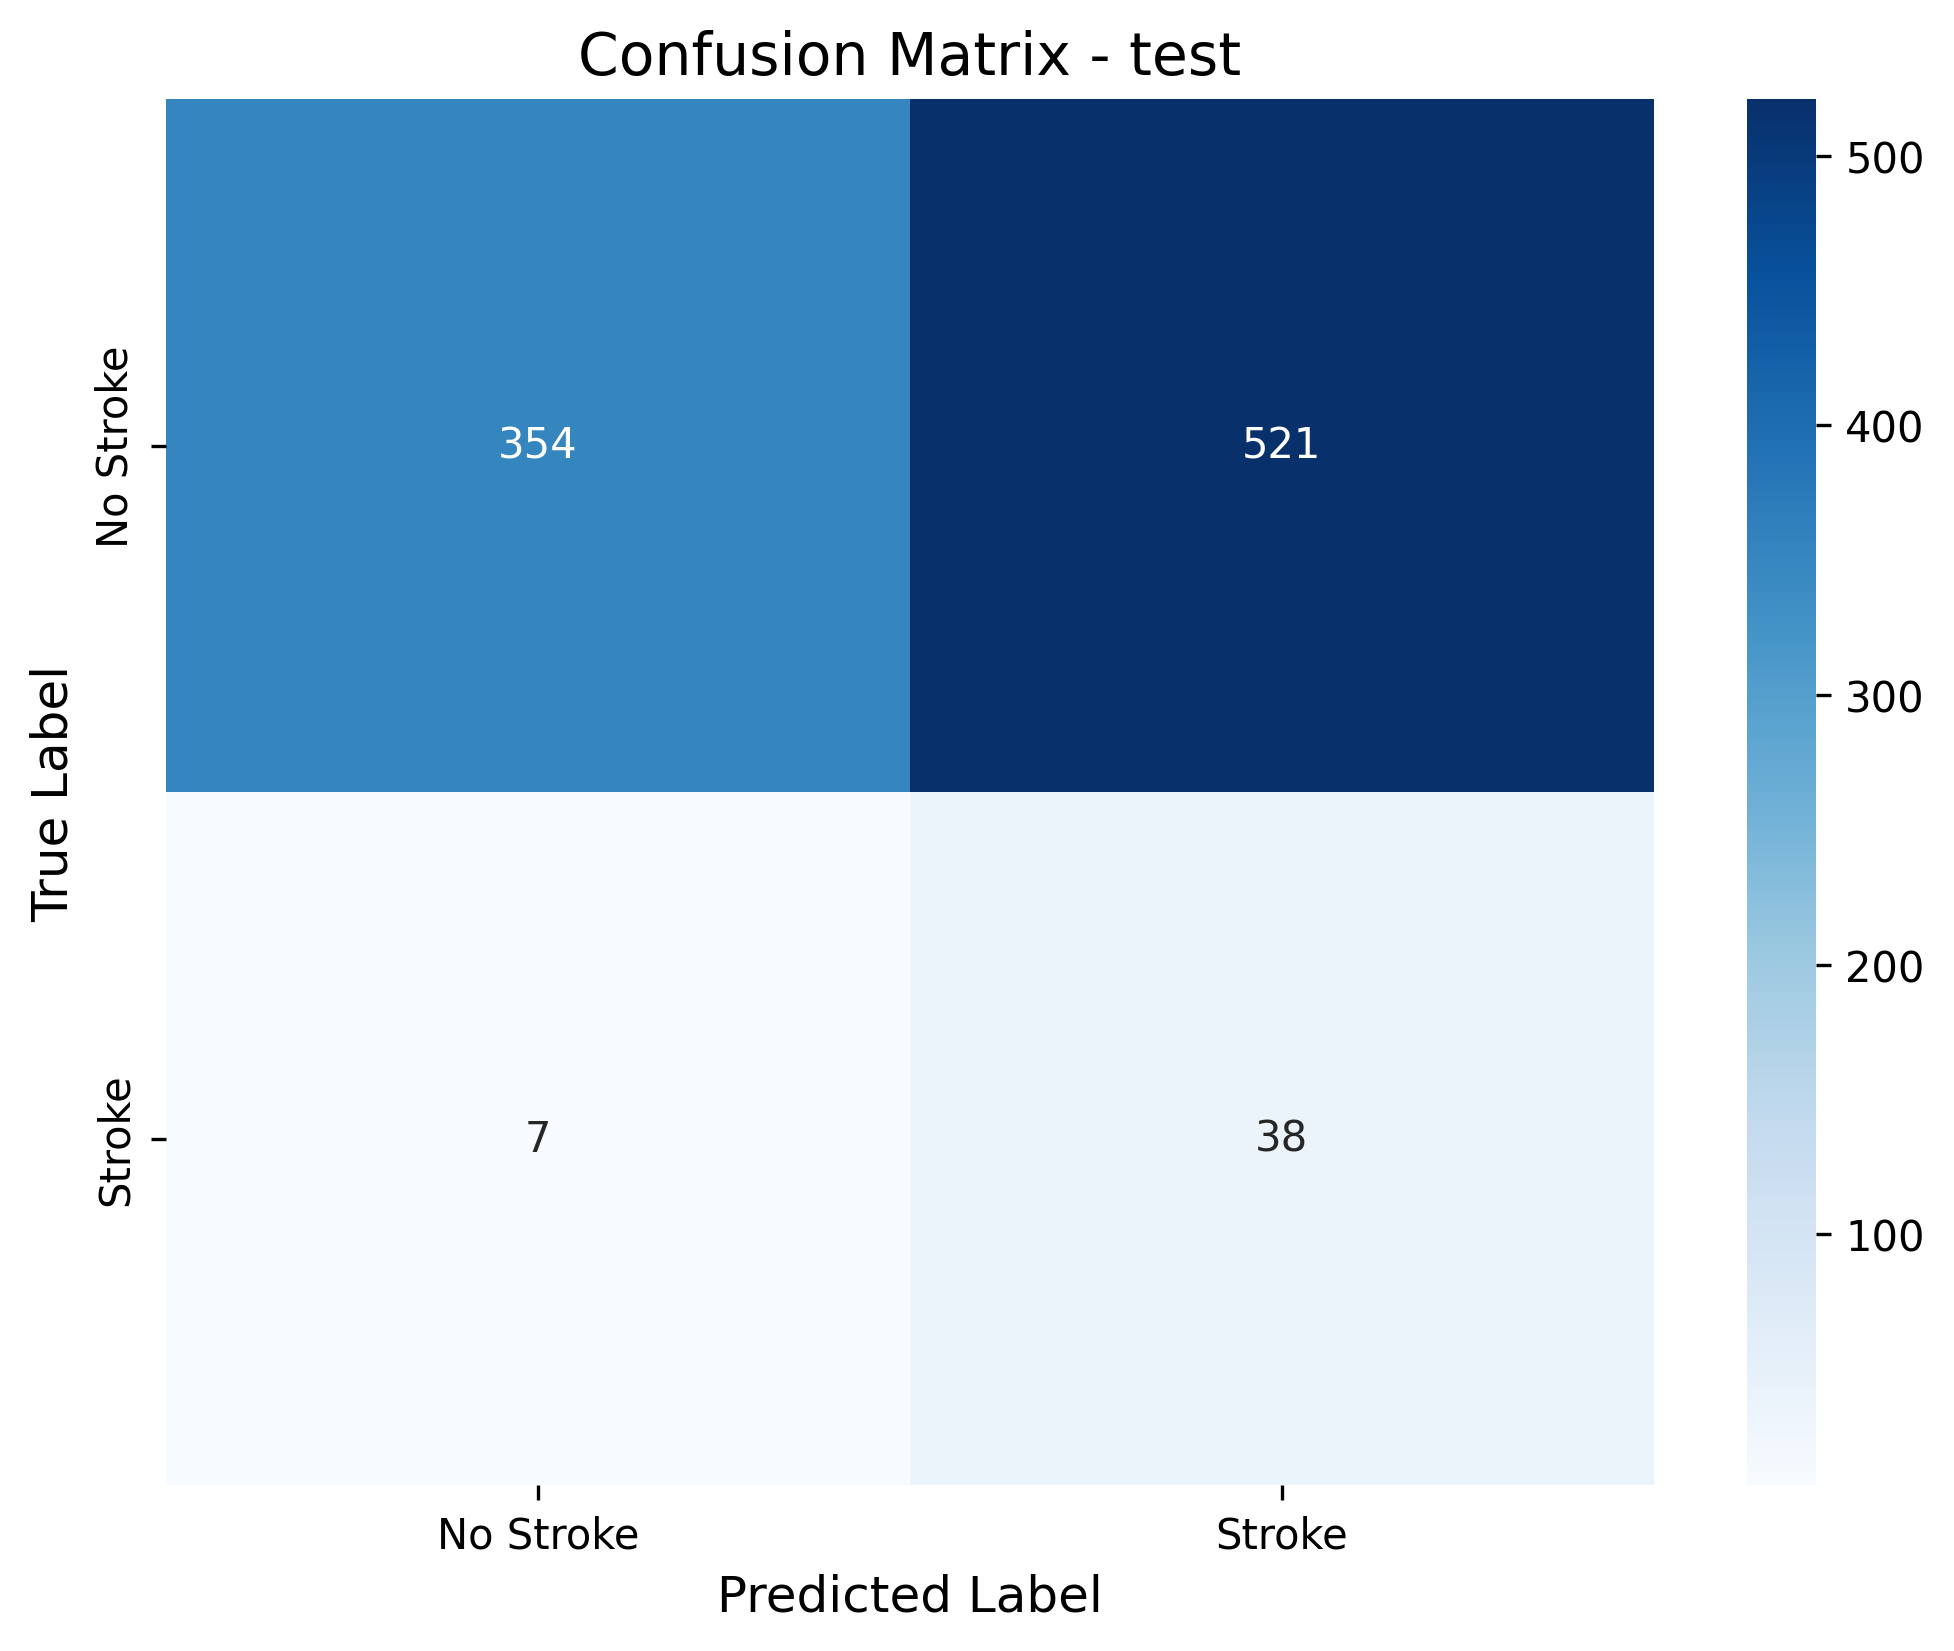
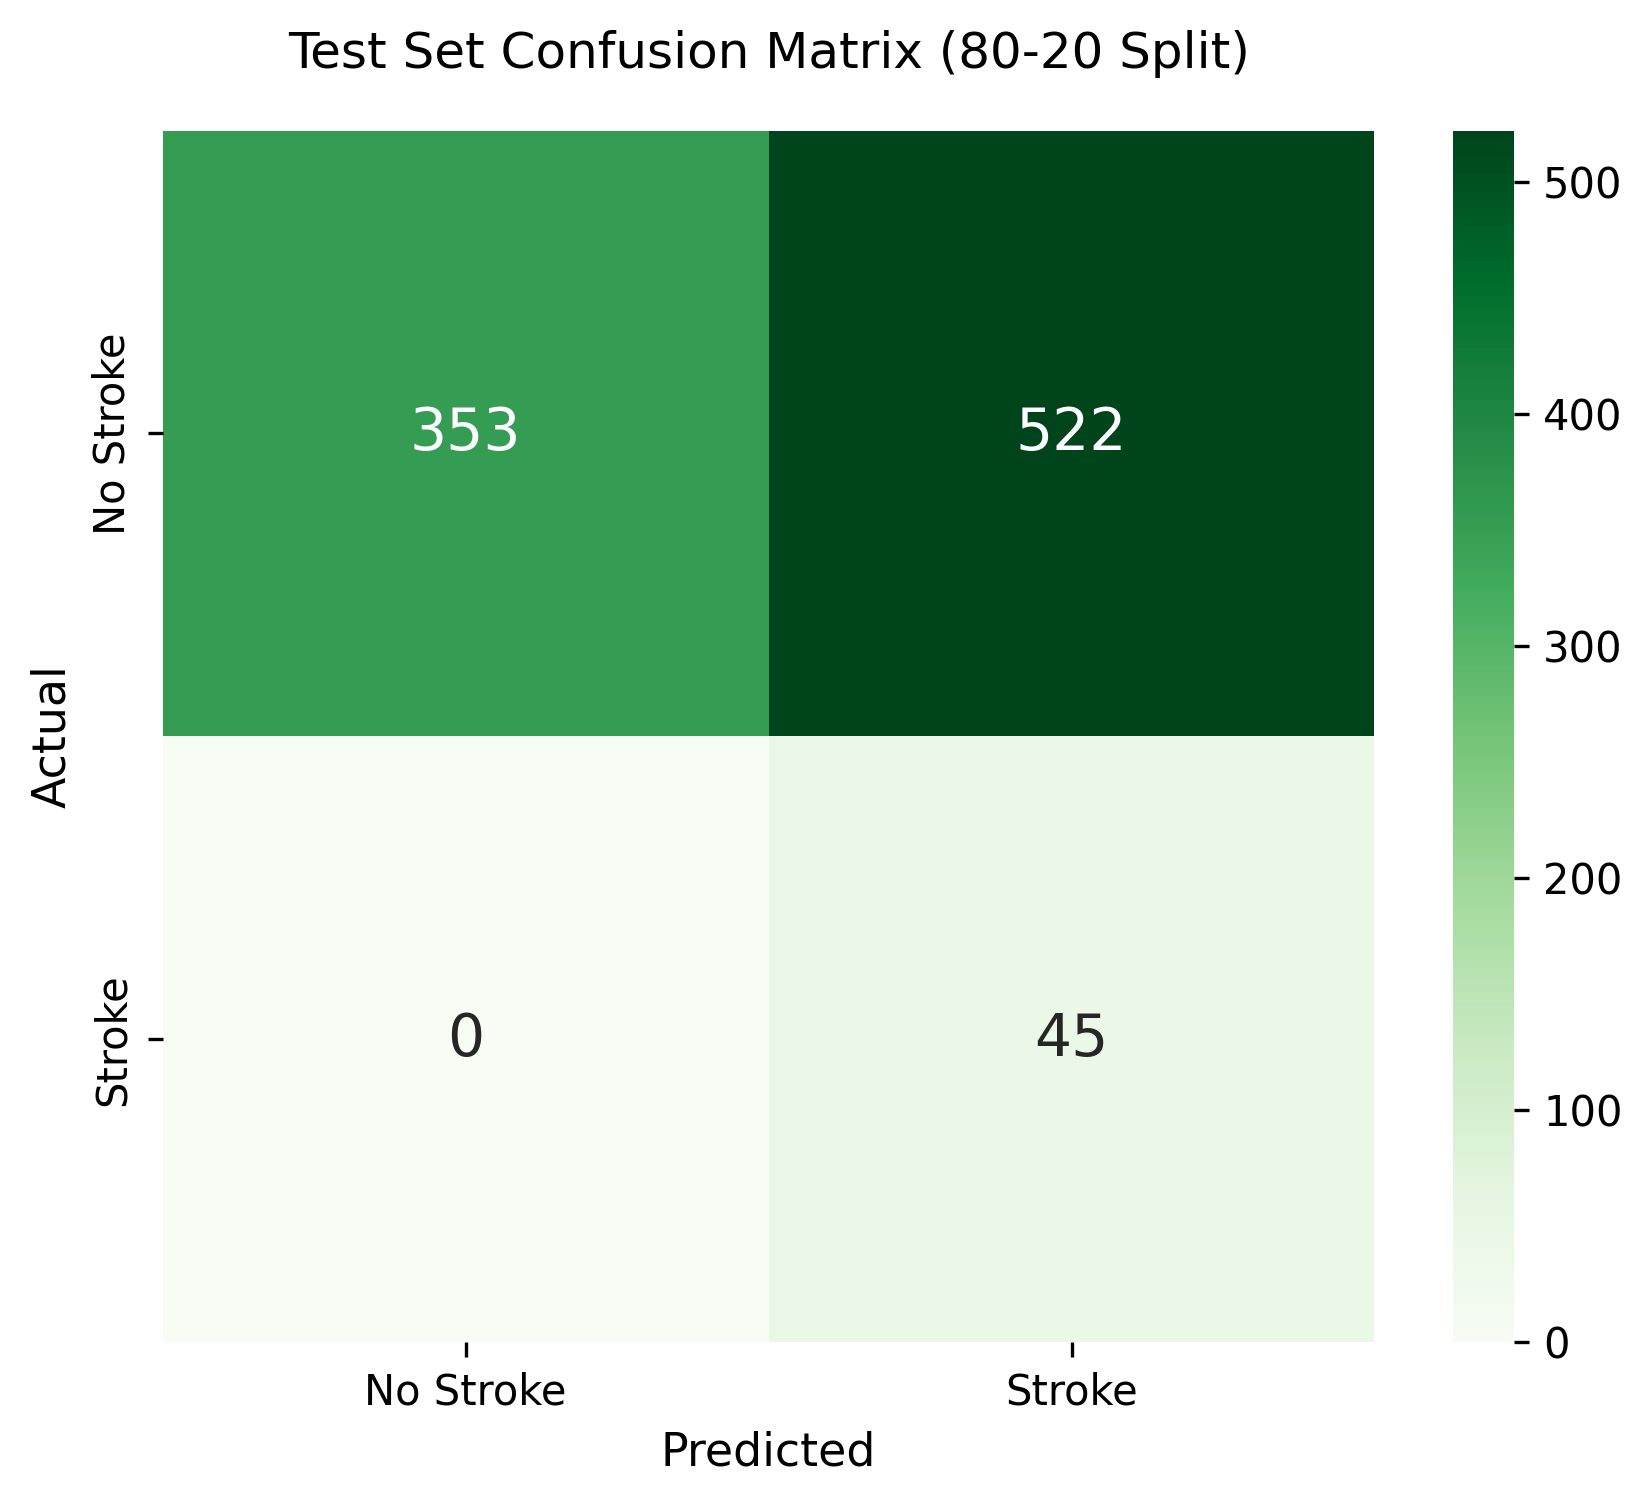
updated naive_bayes.py
- 10-fold cross-validation now properly implemented
- outputs corrected
- maintained 4 decimal places on the csv
- cleaner code

diff --git a/notebooks/models/naive_bayes.py b/notebooks/models/naive_bayes.py
@@ -1,37 +1,66 @@
 # ======================================
 # Programmer: Nathaniel de la Rosa
 # Date Programmed: April 02, 2026
-# Model 2 – Naive Bayes with SMOTE & 10-fold CV
+# Model: Gaussian Naive Bayes for Stroke Prediction
 # Objectives:
-# - Implement a probabilistic classification model (Gaussian Naive Bayes)
-# - Apply SMOTE to balance training data
+# - Implement Gaussian Naive Bayes for binary classification
 # - Perform 10-fold cross-validation
-# - Evaluate using confusion matrix, accuracy, precision, recall, F1-score, specificity, ROC-AUC
-# - Save confusion matrices and metrics results
+# - Evaluate using confusion matrix, accuracy, precision, recall,
+#   F1-score, specificity, and ROC-AUC
 # Outputs:
-# - outputs/confusion_matrix_test.png
-# - outputs/confusion_matrix_unseen.png
-# - outputs/naive_bayes_results.csv
+# - confusion_matrix_test.png (test set with 80-20 split)
+# - confusion_matrix_unseen.png (unseen 10% holdout data)
+# - naive_bayes_results.csv (metrics comparison)
 # ======================================
 
-from pathlib import Path
 import pandas as pd
-import numpy as np
 import matplotlib.pyplot as plt
 import seaborn as sns
-
+from pathlib import Path
 from sklearn.naive_bayes import GaussianNB
-from sklearn.model_selection import StratifiedKFold, cross_validate
-from sklearn.metrics import (confusion_matrix, accuracy_score, precision_score,
-                             recall_score, f1_score, roc_auc_score, make_scorer)
-from imblearn.over_sampling import SMOTE
+from sklearn.model_selection import cross_val_predict, StratifiedKFold
+from sklearn.metrics import (
+    confusion_matrix, accuracy_score, precision_score, recall_score,
+    f1_score, roc_auc_score
+)
 
+# Set up paths
 BASE_DIR = Path(__file__).resolve().parent.parent.parent
 DATA_DIR = BASE_DIR / "data" / "processed"
 OUTPUT_DIR = BASE_DIR / "outputs" / "naive_bayes"
 OUTPUT_DIR.mkdir(exist_ok=True)
 
-# Load data
+def calculate_metrics(y_true, y_pred, y_pred_proba=None):
+    """Calculate all metrics for given predictions"""
+    accuracy = accuracy_score(y_true, y_pred)
+    precision = precision_score(y_true, y_pred, zero_division=0)
+    recall = recall_score(y_true, y_pred, zero_division=0)
+    f1 = f1_score(y_true, y_pred, zero_division=0)
+    cm = confusion_matrix(y_true, y_pred)
+    tn, fp, fn, tp = cm.ravel()
+    specificity = tn / (tn + fp) if (tn + fp) > 0 else 0
+    roc_auc = roc_auc_score(y_true, y_pred_proba) if y_pred_proba is not None else None
+    return {
+        'accuracy': accuracy, 'precision': precision, 'recall': recall,
+        'f1': f1, 'specificity': specificity, 'roc_auc': roc_auc, 'cm': cm
+    }
+
+def save_confusion_matrix(cm, title, filename, cmap):
+    """Save confusion matrix as PNG with readable labels and proper sizing"""
+    plt.figure(figsize=(6, 5))
+    cm_df = pd.DataFrame(cm, index=['No Stroke', 'Stroke'], columns=['No Stroke', 'Stroke'])
+    sns.heatmap(cm_df, annot=True, fmt='d', cmap=cmap, cbar=True,
+                square=True, annot_kws={'size': 14})
+    plt.title(title, fontsize=12, pad=15)
+    plt.xlabel('Predicted', fontsize=11)
+    plt.ylabel('Actual', fontsize=11)
+    plt.xticks(fontsize=10)
+    plt.yticks(fontsize=10)
+    plt.tight_layout()
+    plt.savefig(OUTPUT_DIR / filename, dpi=300, bbox_inches='tight')
+    plt.close()
+
+# Load the pre-split data
 X_train = pd.read_csv(DATA_DIR / "X_train.csv")
 X_test = pd.read_csv(DATA_DIR / "X_test.csv")
 X_unseen = pd.read_csv(DATA_DIR / "X_unseen.csv")
@@ -39,89 +68,54 @@ y_train = pd.read_csv(DATA_DIR / "y_train.csv").squeeze()
 y_test = pd.read_csv(DATA_DIR / "y_test.csv").squeeze()
 y_unseen = pd.read_csv(DATA_DIR / "y_unseen.csv").squeeze()
 
-# Apply SMOTE
-X_train_res, y_train_res = SMOTE(random_state=42).fit_resample(X_train, y_train)
+# Initialize Gaussian Naive Bayes model
+gnb = GaussianNB()
 
-# Define model
-model = GaussianNB()
+# 10-fold cross-validation on training data
+cv = StratifiedKFold(n_splits=10, shuffle=True, random_state=42)
+y_cv_pred = cross_val_predict(gnb, X_train, y_train, cv=cv, method='predict')
+y_cv_pred_proba = cross_val_predict(gnb, X_train, y_train, cv=cv, method='predict_proba')[:, 1]
+cv_metrics = calculate_metrics(y_train, y_cv_pred, y_cv_pred_proba)
 
-# Metrics
-def specificity_score(y_true, y_pred):
-    tn, fp, fn, tp = confusion_matrix(y_true, y_pred).ravel()
-    return tn / (tn + fp)
+# Train model and evaluate on test set
+gnb.fit(X_train, y_train)
+y_test_pred = gnb.predict(X_test)
+y_test_pred_proba = gnb.predict_proba(X_test)[:, 1]
+test_metrics = calculate_metrics(y_test, y_test_pred, y_test_pred_proba)
 
-scoring = {
-    'accuracy': make_scorer(accuracy_score),
-    'precision': make_scorer(precision_score, average='weighted'),
-    'recall': make_scorer(recall_score, average='weighted'),
-    'f1': make_scorer(f1_score, average='weighted'),
-    'specificity': make_scorer(specificity_score),
-    'roc_auc': make_scorer(roc_auc_score)
-}
-
-# 10-fold CV
-kf = StratifiedKFold(n_splits=10, shuffle=True, random_state=42)
-cv_results = cross_validate(model, X_train_res, y_train_res, cv=kf, scoring=scoring)
-
-# Train final model
-model.fit(X_train_res, y_train_res)
-
-# Evaluation
-def evaluate_metrics(y_true, y_pred):
-    tn, fp, fn, tp = confusion_matrix(y_true, y_pred).ravel()
-    return {
-        "accuracy": accuracy_score(y_true, y_pred),
-        "precision": precision_score(y_true, y_pred, average='weighted'),
-        "recall": recall_score(y_true, y_pred, average='weighted'),
-        "f1": f1_score(y_true, y_pred, average='weighted'),
-        "specificity": tn / (tn + fp),
-        "roc_auc": roc_auc_score(y_true, y_pred)
-    }
-
-
-def plot_confusion_matrix(y_true, y_pred, name):
-    """Plot and save confusion matrix"""
-    cm = confusion_matrix(y_true, y_pred)
-    plt.figure(figsize=(8, 6))
-    sns.heatmap(cm, annot=True, fmt='d', cmap='Blues',
-                xticklabels=['No Stroke', 'Stroke'],
-                yticklabels=['No Stroke', 'Stroke'])
-    plt.title(f'Confusion Matrix - {name}', fontsize=14)
-    plt.ylabel('True Label', fontsize=12)
-    plt.xlabel('Predicted Label', fontsize=12)
-
-    # Save to OUTPUT_DIR
-    file_path = OUTPUT_DIR / f'confusion_matrix_{name}.png'
-    plt.savefig(file_path, dpi=300, bbox_inches='tight')
-    plt.close()
-    return file_path
-
-
-# Predictions
-y_test_pred = model.predict(X_test)
-y_unseen_pred = model.predict(X_unseen)
-
-# Compute metrics
-test_metrics = evaluate_metrics(y_test, y_test_pred)
-unseen_metrics = evaluate_metrics(y_unseen, y_unseen_pred)
+# Validate on unseen data
+y_unseen_pred = gnb.predict(X_unseen)
+y_unseen_pred_proba = gnb.predict_proba(X_unseen)[:, 1]
+unseen_metrics = calculate_metrics(y_unseen, y_unseen_pred, y_unseen_pred_proba)
 
 # Save confusion matrices
-test_cm_path = plot_confusion_matrix(y_test, y_test_pred, "test")
-unseen_cm_path = plot_confusion_matrix(y_unseen, y_unseen_pred, "unseen")
+save_confusion_matrix(test_metrics['cm'], 'Test Set Confusion Matrix (80-20 Split)',
+                     'confusion_matrix_test.png', 'Greens')
+save_confusion_matrix(unseen_metrics['cm'], 'Unseen Data Confusion Matrix (10% Holdout)',
+                     'confusion_matrix_unseen.png', 'Oranges')
 
-# Save CSV results
-metrics_list = list(scoring.keys())
-results_df = pd.DataFrame({
-    "Metric": metrics_list,
-    "CV (Training)": [np.mean(cv_results[f"test_{m}"]) for m in metrics_list],
-    "Test Set": [test_metrics[m] for m in metrics_list],
-    "Unseen Set": [unseen_metrics[m] for m in metrics_list]
+# Save combined metrics comparison CSV (rounded to 4 decimals)
+comparison = pd.DataFrame({
+    'Metric': ['Accuracy', 'Precision', 'Recall', 'F1-Score', 'Specificity', 'ROC-AUC'],
+    'Cross-Validation': [
+        round(cv_metrics['accuracy'], 4), round(cv_metrics['precision'], 4),
+        round(cv_metrics['recall'], 4), round(cv_metrics['f1'], 4),
+        round(cv_metrics['specificity'], 4), round(cv_metrics['roc_auc'], 4)
+    ],
+    'Test_Set': [
+        round(test_metrics['accuracy'], 4), round(test_metrics['precision'], 4),
+        round(test_metrics['recall'], 4), round(test_metrics['f1'], 4),
+        round(test_metrics['specificity'], 4), round(test_metrics['roc_auc'], 4)
+    ],
+    'Unseen_Data': [
+        round(unseen_metrics['accuracy'], 4), round(unseen_metrics['precision'], 4),
+        round(unseen_metrics['recall'], 4), round(unseen_metrics['f1'], 4),
+        round(unseen_metrics['specificity'], 4), round(unseen_metrics['roc_auc'], 4)
+    ]
 })
-csv_path = OUTPUT_DIR / "naive_bayes_results.csv"
-results_df.to_csv(csv_path, index=False)
+comparison.to_csv(OUTPUT_DIR / 'naive_bayes_results.csv', index=False)
 
-# Print file locations
-print("Successfully completed model evaluation.")
-print(f"Confusion Matrix (Test) saved at {test_cm_path}")
-print(f"Confusion Matrix (Unseen) saved at {unseen_cm_path}")
-print(f"CSV Results saved at {csv_path}")
+print(f"done. Outputs saved to: {OUTPUT_DIR}")
+print("  - confusion_matrix_test.png")
+print("  - confusion_matrix_unseen.png")
+print("  - naive_bayes_results.csv")
